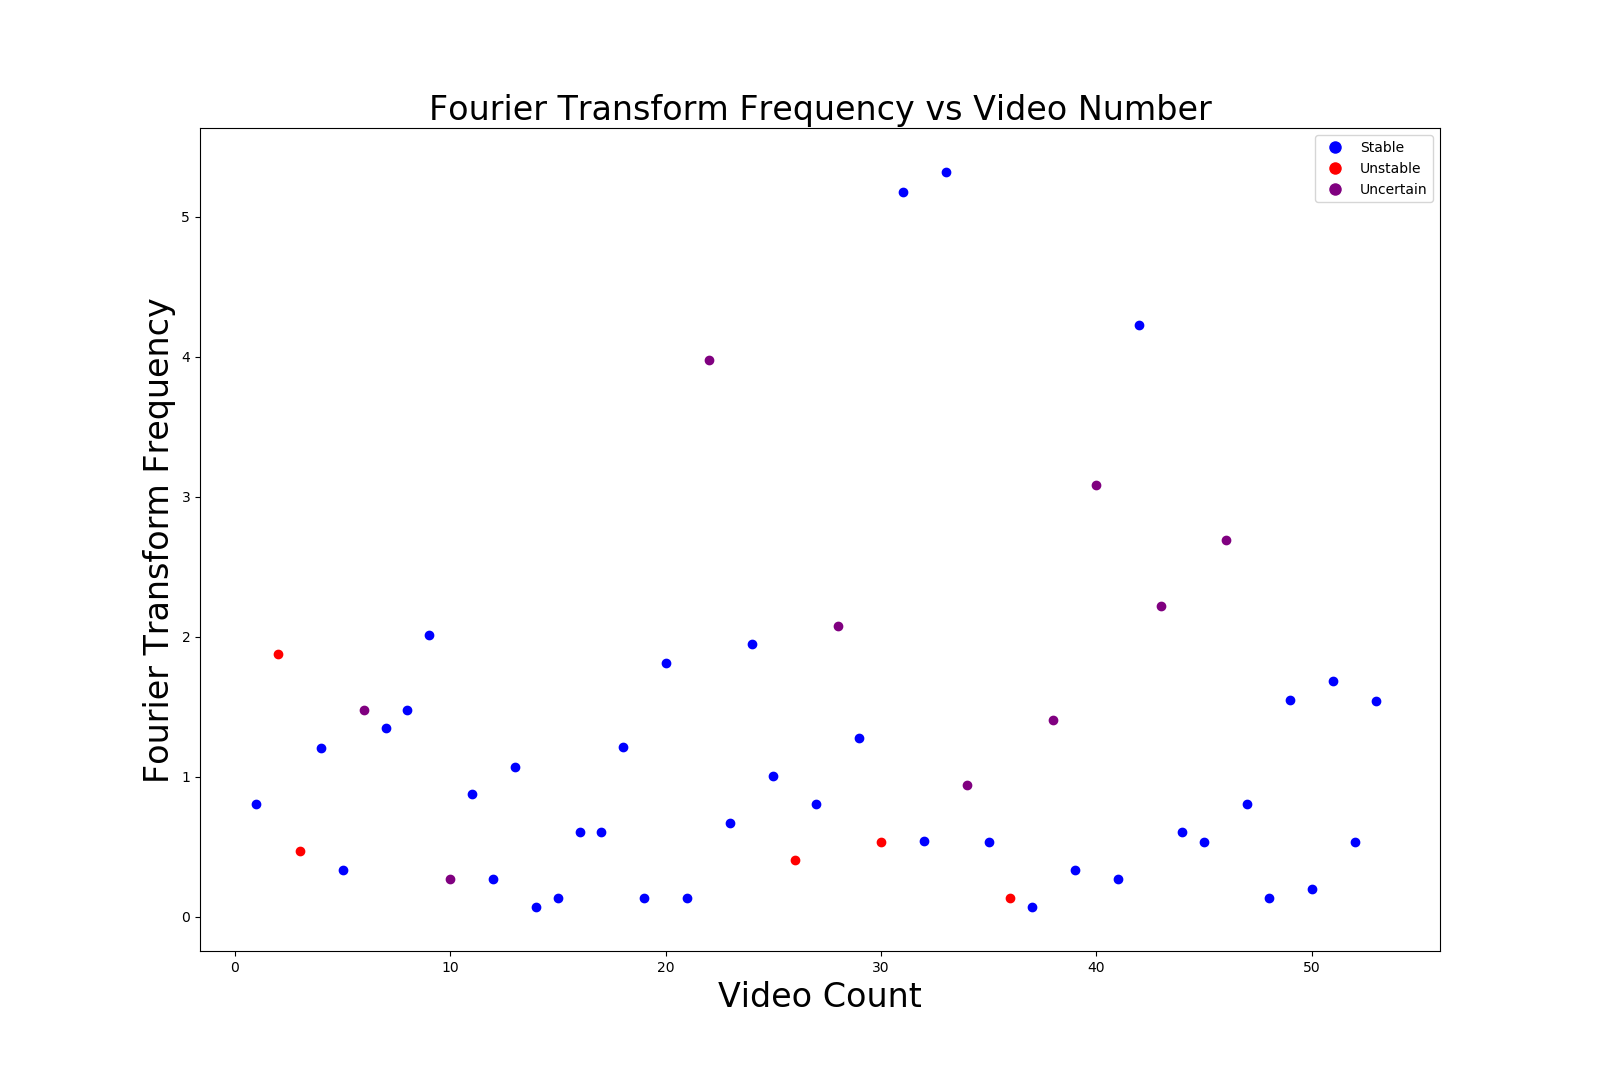
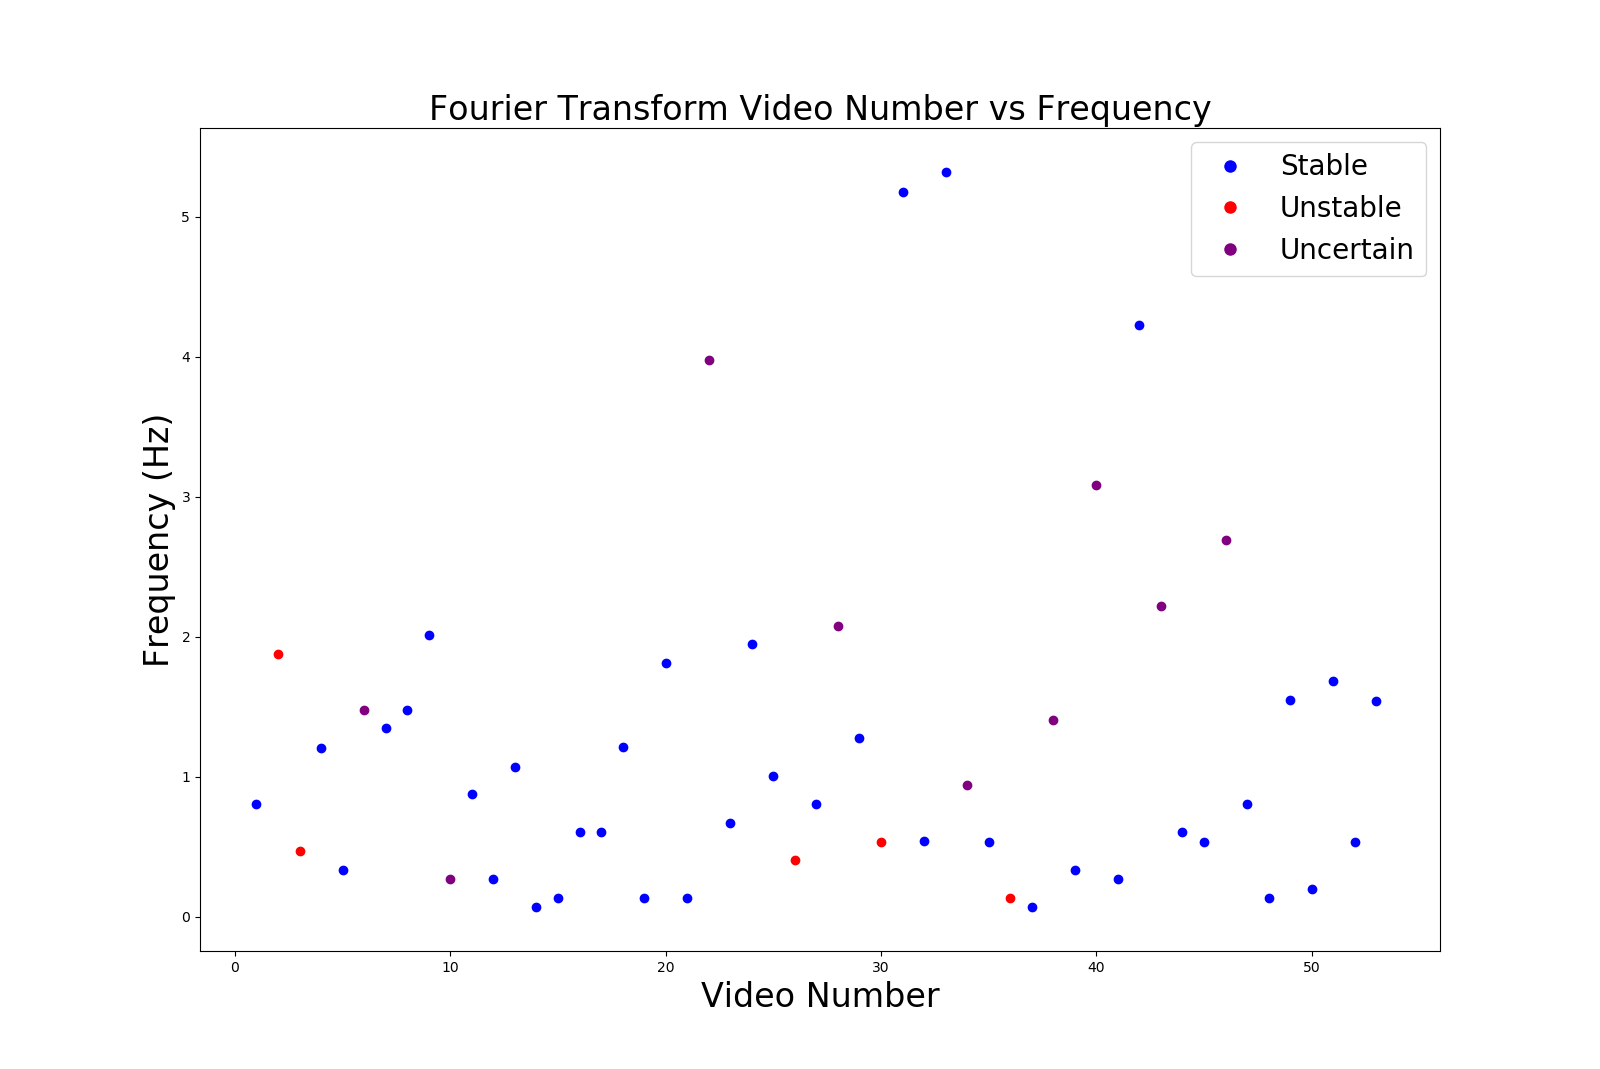
yay

diff --git a/fourier.py b/fourier.py
@@ -98,19 +98,23 @@ def fourier():
                 # fourier = np.abs(fourier)
                 # print(fourier)
                 result = np.argmax(fourier)
-                print("Result = ", str(result))
-                fourierMax.append(result)
+                # print("Result = ", str(result))
+                fourierMax.append(np.max(fourier))
                 frequency = f[result]
-                print("Frequency = " + str(frequency))
+                # print("Frequency = " + str(frequency))
                 fouriers.append(frequency)
                 videos.append(videoCount)
-                print("Video Count = " + str(videoCount))
+                # print("Video Count = " + str(videoCount))
                 
                 averages = []
                 
                 fourier = np.abs(fourier)
-                fourierAverage = sum(fouriers) / len(fouriers)
+                fourierAverage = sum(fourier) / len(fourier)
+                # print(result)
+                print(fourierAverage)
                 fourierMeans.append(fourierAverage)
+                
+                print(np.max(fourier) / fourierAverage)
                 
                 # plt.ylabel("Amplitude", fontsize = 24)
                 # plt.xlabel("Frequency (Hz)", fontsize = 24)
@@ -122,15 +126,15 @@ def fourier():
     print(fouriers)
     for i in range(0, len(stabilities)):
         if stabilities[i] > 1.25:
-            plt.scatter(fourierMax[i], fourierMeans[i], c = 'blue')
+            plt.scatter(fouriers[i], fourierMax[i] / fourierMeans[i], c = 'blue')
         elif stabilities[i] > .5:
-            plt.scatter(fourierMax[i], fourierMeans[i], c = 'purple')
+            plt.scatter(fouriers[i], fourierMax[i] / fourierMeans[i], c = 'purple')
         else:
-            plt.scatter(fourierMax[i], fourierMeans[i], c = 'red')
+            plt.scatter(fouriers[i], fourierMax[i] / fourierMeans[i], c = 'red')
     
-    plt.title('Fourier Transform Max Amplitude vs Mean Amplitude', fontsize = 24)
-    plt.xlabel('Max Amplitude', fontsize = 24)
-    plt.ylabel('Mean Amplitude', fontsize = 24)
+    plt.title('Fourier Transform Video Number vs Frequency', fontsize = 24)
+    plt.xlabel('Frequency (Hz)', fontsize = 24)
+    plt.ylabel('Normalized Maximum Amplitude', fontsize = 24)
     
     legend_elements = [Line2D([0],[0], marker = 'o', color = 'w', 
                             label = 'Stable',
@@ -142,7 +146,7 @@ def fourier():
                             label = 'Uncertain',
                             markerfacecolor = 'purple', markersize = 10)]
 
-    plt.legend(handles = legend_elements)
+    plt.legend(handles = legend_elements, fontsize = 20)
     
     plt.show()
     
